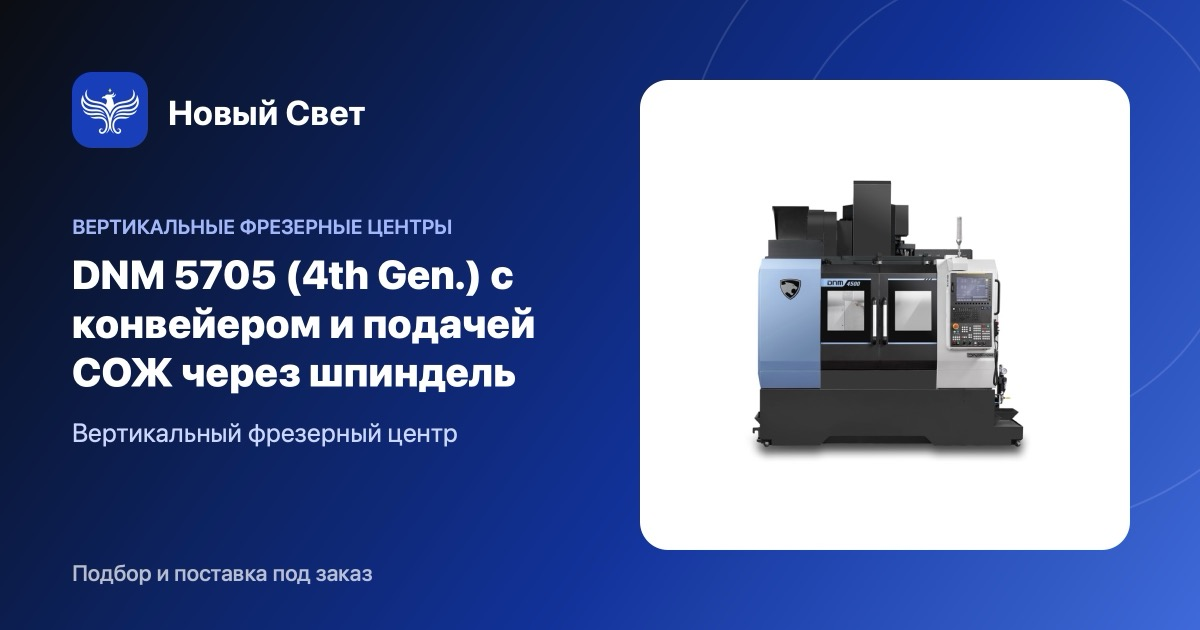
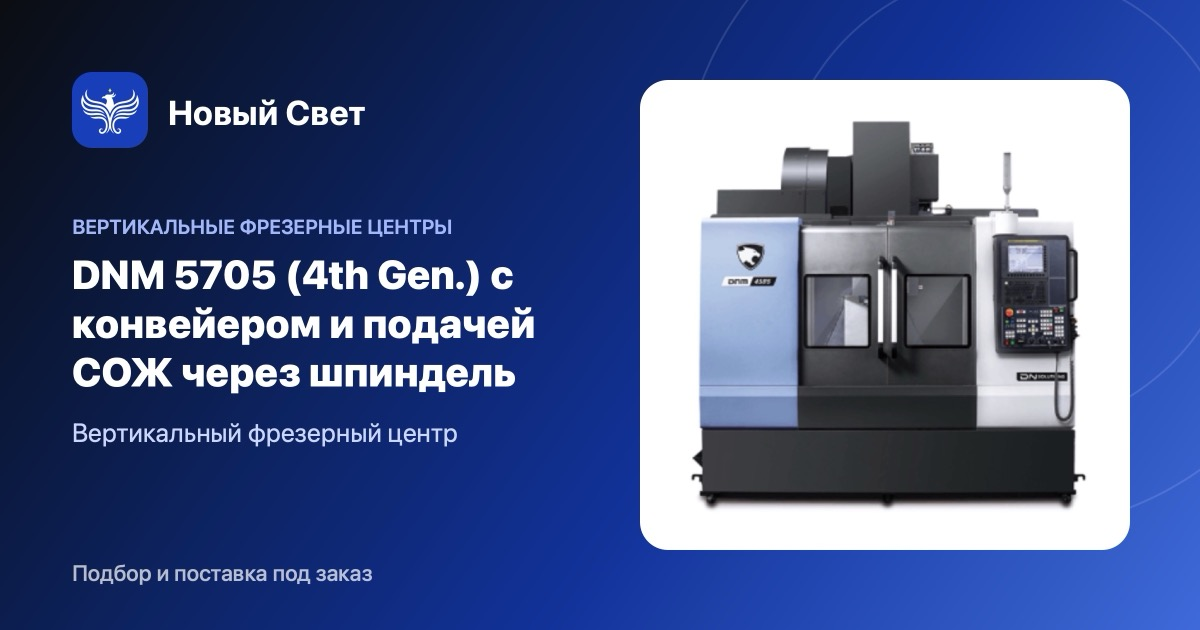
Фото DNM 5705 (присланы заказчиком)

Changed region(s): [[0.555, 0.181, 0.925, 0.8143]]

diff --git a/catalog-stock.js b/catalog-stock.js
@@ -14,7 +14,7 @@
   {"id": "tr-diamond-ag600-siemens", "status": "transit", "cond": "new", "type": "5-осевые центры", "country": "Китай", "brand": "DIAMOND", "model": "DIAMOND SmartLine AG-600 (Siemens)", "title": "5-осевой фрезерный обрабатывающий центр", "variants": "", "img": "", "price": "435 000 USD", "priceOld": "", "priceNote": "с НДС 22%", "used": null, "eta": [], "specs": {"Стол": "Ø630 мм", "Ходы X/Y/Z": "700/900/500 мм", "Шпиндель": "15 000 об/мин, 33 кВт", "ЧПУ": "Siemens One"}},
   {"id": "tr-diamond-ag600-syntec", "status": "transit", "cond": "new", "type": "5-осевые центры", "country": "Китай", "brand": "DIAMOND", "model": "DIAMOND SmartLine AG-600 (Syntec)", "title": "5-осевой фрезерный обрабатывающий центр", "variants": "", "img": "", "price": "350 000 USD", "priceOld": "", "priceNote": "с НДС 22%", "used": null, "eta": [], "specs": {"Стол": "Ø630 мм", "Ходы X/Y/Z": "700/900/500 мм", "Шпиндель": "15 000 об/мин, 33 кВт", "ЧПУ": "Syntec"}},
   {"id": "tr-diamond-ag300", "status": "transit", "cond": "new", "type": "5-осевые центры", "country": "Китай", "brand": "DIAMOND", "model": "DIAMOND SmartLine AG-300", "title": "5-осевой фрезерный обрабатывающий центр", "variants": "", "img": "", "price": "240 000 USD", "priceOld": "", "priceNote": "с НДС 22%", "used": null, "eta": [], "specs": {"Стол": "Ø350 мм", "Ходы X/Y/Z": "550/550/450 мм", "Шпиндель": "15 000 об/мин, 18 кВт", "ЧПУ": "Syntec"}},
-  {"id": "tr-dnm5705-conv", "status": "transit", "cond": "new", "type": "Вертикальные фрезерные центры", "country": "Китай", "brand": "DN Solutions", "model": "DNM 5705 (4th Gen.) с конвейером и подачей СОЖ через шпиндель", "title": "Вертикальный фрезерный центр", "variants": "", "img": "assets/catalog/cn-dnm4th.jpg", "price": "По запросу", "priceOld": "", "priceNote": "", "used": null, "eta": [], "specs": {"Стол": "1300 × 570 мм", "Ходы X/Y/Z": "1050/570/510 мм", "Шпиндель": "8000 об/мин", "ЧПУ": "Fanuc 0i-F Plus"}},
+  {"id": "tr-dnm5705-conv", "status": "transit", "cond": "new", "type": "Вертикальные фрезерные центры", "country": "Китай", "brand": "DN Solutions", "model": "DNM 5705 (4th Gen.) с конвейером и подачей СОЖ через шпиндель", "title": "Вертикальный фрезерный центр", "variants": "", "img": "assets/catalog/tr-dnm5705.jpg", "price": "По запросу", "priceOld": "", "priceNote": "", "used": null, "eta": [], "specs": {"Стол": "1300 × 570 мм", "Ходы X/Y/Z": "1050/570/510 мм", "Шпиндель": "8000 об/мин", "ЧПУ": "Fanuc 0i-F Plus"}},
   {"id": "tr-puma4005", "status": "transit", "cond": "new", "type": "Токарные центры", "country": "Китай", "brand": "DN Solutions", "model": "DN Solutions PUMA 4005", "title": "Горизонтальный токарный центр", "variants": "", "img": "assets/catalog/cn-puma4005.jpg", "price": "По запросу", "priceOld": "", "priceNote": "", "used": null, "eta": [], "specs": {"Ø точения": "550 мм", "Длина": "1042 мм", "Патрон": "15/18″", "ЧПУ": "Fanuc 0i-F Plus"}},
   {"id": "tr-puma4005l", "status": "transit", "cond": "new", "type": "Токарные центры", "country": "Китай", "brand": "DN Solutions", "model": "DN Solutions PUMA 4005L", "title": "Горизонтальный токарный центр (удлинённая станина)", "variants": "", "img": "assets/catalog/cn-puma4005.jpg", "price": "По запросу", "priceOld": "", "priceNote": "", "used": null, "eta": [], "specs": {"Ø точения": "550 мм", "Длина": "2092 мм", "Патрон": "15/18″", "ЧПУ": "Fanuc 0i-F Plus"}},
   {"id": "tr-puma4005m", "status": "transit", "cond": "new", "type": "Токарные центры", "country": "Китай", "brand": "DN Solutions", "model": "DN Solutions PUMA 4005M", "title": "Токарно-фрезерный центр с приводным инструментом", "variants": "", "img": "assets/catalog/cn-puma4005.jpg", "price": "По запросу", "priceOld": "", "priceNote": "", "used": null, "eta": [], "specs": {"Ø точения": "560 мм", "Длина": "978 мм", "Патрон": "15/18″", "Голова": "BMT 75"}},
@@ -23,7 +23,7 @@
   {"id": "tr-puma3100xly", "status": "transit", "cond": "new", "type": "Токарные центры", "country": "Корея", "brand": "DN Solutions", "model": "DN Solutions PUMA 3100XLY", "title": "Токарный центр с осью Y и задней бабкой", "variants": "", "img": "assets/catalog/kr-puma2100.jpg", "price": "По запросу", "priceOld": "", "priceNote": "", "used": null, "eta": [], "specs": {"Ø точения": "420 мм", "Длина": "2125 мм", "Патрон": "12″", "Голова": "12 поз. BMT 65"}},
   {"id": "tr-dnm4505-8000", "status": "transit", "cond": "new", "type": "Вертикальные фрезерные центры", "country": "Китай", "brand": "DN Solutions", "model": "DNM 4505 (4th Gen.), шпиндель 8000 об/мин", "title": "Вертикальный фрезерный центр", "variants": "", "img": "assets/catalog/cn-dnm4th.jpg", "price": "По запросу", "priceOld": "", "priceNote": "", "used": null, "eta": [], "specs": {"Стол": "1000 × 450 мм", "Ходы X/Y/Z": "800/450/510 мм", "Шпиндель": "8000 об/мин", "ЧПУ": "Fanuc 0i-F Plus"}},
   {"id": "tr-dnm4505-12000", "status": "transit", "cond": "new", "type": "Вертикальные фрезерные центры", "country": "Китай", "brand": "DN Solutions", "model": "DNM 4505 (4th Gen.), шпиндель 12 000 об/мин", "title": "Вертикальный фрезерный центр", "variants": "", "img": "assets/catalog/cn-dnm4th.jpg", "price": "По запросу", "priceOld": "", "priceNote": "", "used": null, "eta": [], "specs": {"Стол": "1000 × 450 мм", "Ходы X/Y/Z": "800/450/510 мм", "Шпиндель": "12 000 об/мин", "ЧПУ": "Fanuc 0i-F Plus"}},
-  {"id": "tr-dnm5705-8000", "status": "transit", "cond": "new", "type": "Вертикальные фрезерные центры", "country": "Китай", "brand": "DN Solutions", "model": "DNM 5705 (4th Gen.), шпиндель 8000 об/мин", "title": "Вертикальный фрезерный центр", "variants": "", "img": "assets/catalog/cn-dnm4th.jpg", "price": "По запросу", "priceOld": "", "priceNote": "", "used": null, "eta": [], "specs": {"Стол": "1300 × 570 мм", "Ходы X/Y/Z": "1050/570/510 мм", "Шпиндель": "8000 об/мин", "ЧПУ": "Fanuc 0i-F Plus"}},
+  {"id": "tr-dnm5705-8000", "status": "transit", "cond": "new", "type": "Вертикальные фрезерные центры", "country": "Китай", "brand": "DN Solutions", "model": "DNM 5705 (4th Gen.), шпиндель 8000 об/мин", "title": "Вертикальный фрезерный центр", "variants": "", "img": "assets/catalog/tr-dnm5705.jpg", "price": "По запросу", "priceOld": "", "priceNote": "", "used": null, "eta": [], "specs": {"Стол": "1300 × 570 мм", "Ходы X/Y/Z": "1050/570/510 мм", "Шпиндель": "8000 об/мин", "ЧПУ": "Fanuc 0i-F Plus"}},
   {"id": "tr-mynx6550", "status": "transit", "cond": "new", "type": "Вертикальные фрезерные центры", "country": "Китай", "brand": "DN Solutions", "model": "DN Solutions Mynx 6550", "title": "Вертикальный фрезерный центр для тяжёлой резки (BT50)", "variants": "", "img": "assets/catalog/cn-mynx.jpg", "price": "По запросу", "priceOld": "", "priceNote": "", "used": null, "eta": [], "specs": {"Стол": "1400 × 670 мм", "Ходы X/Y/Z": "1270/670/625 мм", "Шпиндель": "6000 об/мин, 15 кВт", "Магазин": "24 инстр. BT50"}},
   {"id": "tr-spinex-sl206", "status": "transit", "cond": "new", "type": "Автоматы продольного точения", "country": "Китай", "brand": "Spinex", "model": "Spinex SL206", "title": "Автомат продольного точения с противошпинделем и осью Y2", "variants": "", "img": "", "price": "124 000 USD", "priceOld": "", "priceNote": "с НДС 22%", "used": null, "eta": [], "specs": {"Пруток": "Ø20 мм", "Длина точения": "180 мм", "Противошпиндель": "есть", "ЧПУ": "Syntec"}},
   {"id": "kr-dvf5000", "status": "transit", "cond": "new", "type": "5-осевые центры", "country": "Корея", "brand": "DN Solutions", "model": "DVF 5000 (Fanuc)", "title": "5-осевой вертикальный обрабатывающий центр", "variants": "", "img": "assets/catalog/kr-dvf5000.jpg", "price": "По запросу", "priceOld": "", "priceNote": "", "used": null, "eta": [["январь 2027", 2], ["август–сентябрь 2027", 1]], "specs": {"Ходы X/Y/Z": "650/520/480 мм", "Стол": "Ø630 × 450 мм", "Шпиндель": "до 20 000 об/мин", "ЧПУ": "Fanuc 31i-B5 Plus"}},

diff --git a/series/tr-dnm5705-conv.html b/series/tr-dnm5705-conv.html
@@ -54,7 +54,7 @@
 
 <main class="section sp-main">
   <div class="wrap sp-grid">
-    <figure class="sp-photo"><img src="../assets/catalog/cn-dnm4th.jpg" alt="DNM 5705 (4th Gen.) с конвейером и подачей СОЖ через шпиндель"><span class="badge badge--order">В наличии скоро</span></figure>
+    <figure class="sp-photo"><img src="../assets/catalog/tr-dnm5705.jpg" alt="DNM 5705 (4th Gen.) с конвейером и подачей СОЖ через шпиндель"><span class="badge badge--order">В наличии скоро</span></figure>
     <div class="sp-info">
       <ul class="specs sp-facts"><li><span>Стол</span><b>1300 × 570 мм</b></li><li><span>Ходы X/Y/Z</span><b>1050/570/510 мм</b></li><li><span>Шпиндель</span><b>8000 об/мин</b></li><li><span>ЧПУ</span><b>Fanuc 0i-F Plus</b></li><li><span>Пока оформляем договор</span><b>доставим станок на склад в России — к подписанию он уже будет на месте</b></li></ul>
       

diff --git a/series/tr-dnm5705-8000.html b/series/tr-dnm5705-8000.html
@@ -54,7 +54,7 @@
 
 <main class="section sp-main">
   <div class="wrap sp-grid">
-    <figure class="sp-photo"><img src="../assets/catalog/cn-dnm4th.jpg" alt="DNM 5705 (4th Gen.), шпиндель 8000 об/мин"><span class="badge badge--order">В наличии скоро</span></figure>
+    <figure class="sp-photo"><img src="../assets/catalog/tr-dnm5705.jpg" alt="DNM 5705 (4th Gen.), шпиндель 8000 об/мин"><span class="badge badge--order">В наличии скоро</span></figure>
     <div class="sp-info">
       <ul class="specs sp-facts"><li><span>Стол</span><b>1300 × 570 мм</b></li><li><span>Ходы X/Y/Z</span><b>1050/570/510 мм</b></li><li><span>Шпиндель</span><b>8000 об/мин</b></li><li><span>ЧПУ</span><b>Fanuc 0i-F Plus</b></li><li><span>Пока оформляем договор</span><b>доставим станок на склад в России — к подписанию он уже будет на месте</b></li></ul>
       

diff --git a/tools/stock_items.py b/tools/stock_items.py
@@ -66,7 +66,7 @@ STOCK_ITEMS = [
  item('tr-dnm5705-conv', 'transit', VMC, 'Китай', DN, 'DNM 5705 (4th Gen.) с конвейером и подачей СОЖ через шпиндель', 'Вертикальный фрезерный центр',
    [('Стол', '1300 × 570 мм'), ('Ходы X/Y/Z', '1050/570/510 мм'), ('Шпиндель', '8000 об/мин'), ('ЧПУ', 'Fanuc 0i-F Plus')],
    [('Стол', '1300 × 570 мм'), ('Перемещения X/Y/Z', '1050 × 570 × 510 мм'), ('Шпиндель', '8000 об/мин, 11 / 18,5 кВт'), ('Система ЧПУ', 'Fanuc 0i-F Plus')],
-   config=['Конвейер удаления стружки, бак для стружки 220 л', 'Подача СОЖ через шпиндель 20 бар'], img='assets/catalog/cn-dnm4th.jpg', see='cn-dnm4th'),
+   config=['Конвейер удаления стружки, бак для стружки 220 л', 'Подача СОЖ через шпиндель 20 бар'], img='assets/catalog/tr-dnm5705.jpg', see='cn-dnm4th'),
  item('tr-puma4005', 'transit', TURN, 'Китай', DN, 'DN Solutions PUMA 4005', 'Горизонтальный токарный центр',
    [('Ø точения', '550 мм'), ('Длина', '1042 мм'), ('Патрон', '15/18″'), ('ЧПУ', 'Fanuc 0i-F Plus')],
    [('Диаметр точения', '550 мм'), ('Длина точения', '1042 мм'), ('Патрон', '15 / 18″'), ('Шпиндель', '2000 об/мин, 22 / 35 кВт'), ('Перемещения X / Z', '352 / 1105 мм'), ('Система ЧПУ', 'Fanuc 0i-F Plus')],
@@ -102,7 +102,7 @@ STOCK_ITEMS = [
  item('tr-dnm5705-8000', 'transit', VMC, 'Китай', DN, 'DNM 5705 (4th Gen.), шпиндель 8000 об/мин', 'Вертикальный фрезерный центр',
    [('Стол', '1300 × 570 мм'), ('Ходы X/Y/Z', '1050/570/510 мм'), ('Шпиндель', '8000 об/мин'), ('ЧПУ', 'Fanuc 0i-F Plus')],
    [('Стол', '1300 × 570 мм'), ('Перемещения X/Y/Z', '1050 × 570 × 510 мм'), ('Шпиндель', '8000 об/мин, 11 / 18,5 кВт'), ('Система ЧПУ', 'Fanuc 0i-F Plus')],
-   config=['Высокоскоростной шпиндель 8000 об/мин в базовом исполнении'], img='assets/catalog/cn-dnm4th.jpg', see='cn-dnm4th'),
+   config=['Высокоскоростной шпиндель 8000 об/мин в базовом исполнении'], img='assets/catalog/tr-dnm5705.jpg', see='cn-dnm4th'),
  item('tr-mynx6550', 'transit', VMC, 'Китай', DN, 'DN Solutions Mynx 6550', 'Вертикальный фрезерный центр для тяжёлой резки (BT50)',
    [('Стол', '1400 × 670 мм'), ('Ходы X/Y/Z', '1270/670/625 мм'), ('Шпиндель', '6000 об/мин, 15 кВт'), ('Магазин', '24 инстр. BT50')],
    [('Стол', '1400 × 670 мм'), ('Перемещения X/Y/Z', '1270 × 670 × 625 мм'), ('Шпиндель', '6000 об/мин, 15 кВт'), ('Магазин инструмента', '24 инструмента, BT50'), ('Система ЧПУ', 'Fanuc 0i-F Plus')],
